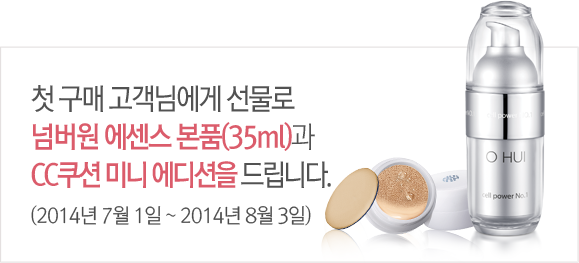
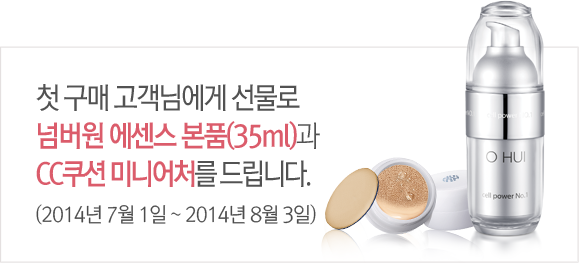
some image replace

diff --git a/app/assets/stylesheets/application.css b/app/assets/stylesheets/application.css
@@ -11,7 +11,6 @@
  * file per style scope.
  *
  *= require_self
- *= require pc/style
  *= require pc/icheck/skins/all
  *= require pc/icheck/skins/minimal/_all
  *= require pc/icheck/skins/minimal/minimal
@@ -19,5 +18,6 @@
  *= require pc/selectric
  *= require owl.carousel
  *= require owl.theme
+ *= require pc/style
  
  */

diff --git a/app/assets/stylesheets/pc/style.css.scss b/app/assets/stylesheets/pc/style.css.scss
@@ -390,8 +390,9 @@ img{
 
 .footer_custom{
   width: 100%;
-  background-color: #eef1f3;
+  background-color: #f1f0f0;
   text-align: center;
+  
 }
 .footer_custom .inner{
  background: asset-url("pc/caution.png") top center no-repeat; 

diff --git a/app/models/message.rb b/app/models/message.rb
@@ -24,7 +24,7 @@ class Message < ActiveRecord::Base
 오휘를 처음 만난 오늘부터
 아름다워질거예요
 
-새로운 NEW FACE를 위해 넘버원 에센스 본품(35ml)과 CC쿠션 미니 에디션을 드립니다.
+새로운 NEW FACE를 위해 넘버원 에센스 본품(35ml)과 CC쿠션 미니어처를 드립니다.
 
 쿠폰 사용기간 :
 2014.7.1(화)~2014.8.3(일)
